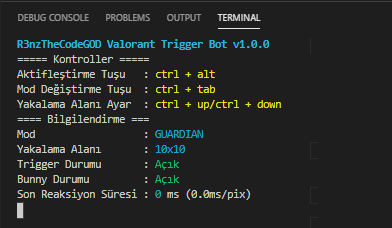
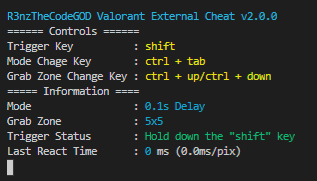
fix #3, Version v2.0.0

diff --git a/main.py b/main.py
@@ -1,123 +1,136 @@
-import keyboard
-import pyautogui
-import time
-import ctypes
-import PIL.ImageGrab
-import PIL.Image
-import winsound 
-import os
-import mss
+"""
+MIT License
+
+Copyright (c) 2020 Erdem Yılmaz
+
+Permission is hereby granted, free of charge, to any person obtaining a copy
+of this software and associated documentation files (the "Software"), to deal
+in the Software without restriction, including without limitation the rights
+to use, copy, modify, merge, publish, distribute, sublicense, and/or sell
+copies of the Software, and to permit persons to whom the Software is
+furnished to do so, subject to the following conditions:
+
+The above copyright notice and this permission notice shall be included in all
+copies or substantial portions of the Software.
+
+THE SOFTWARE IS PROVIDED "AS IS", WITHOUT WARRANTY OF ANY KIND, EXPRESS OR
+IMPLIED, INCLUDING BUT NOT LIMITED TO THE WARRANTIES OF MERCHANTABILITY,
+FITNESS FOR A PARTICULAR PURPOSE AND NONINFRINGEMENT. IN NO EVENT SHALL THE
+AUTHORS OR COPYRIGHT HOLDERS BE LIABLE FOR ANY CLAIM, DAMAGES OR OTHER
+LIABILITY, WHETHER IN AN ACTION OF CONTRACT, TORT OR OTHERWISE, ARISING FROM,
+OUT OF OR IN CONNECTION WITH THE SOFTWARE OR THE USE OR OTHER DEALINGS IN THE
+SOFTWARE.
+"""
+
+__author__: str = 'R3nzTheCodeGOD'
+__version__: str = 'v2.0.0'
+
+from keyboard import is_pressed
+from os import system
+from time import perf_counter, sleep
+from ctypes import windll
+from PIL import ImageGrab, Image
+from winsound import Beep 
+from mss import mss
 from colorama import Fore, Style, init
-S_HEIGHT, S_WIDTH = (PIL.ImageGrab.grab().size)
-PURPLE_R, PURPLE_G, PURPLE_B = (250, 100, 250)
-TOLERANCE = 31
-GRABZONE = 10
-TRIGGER_KEY = "ctrl + alt"
-SWITCH_KEY = "ctrl + tab"
-GRABZONE_KEY_UP = "ctrl + up"
-BUNNY_KEY = "ctrl + space"
-GRABZONE_KEY_DOWN = "ctrl + down"
-mods = ["OPERATOR/MARSHAL", "GUARDIAN", "VANDAL/PHANTOM/SHOTGUNS"]
-pyautogui.FAILSAFE = False
+
+S_HEIGHT, S_WIDTH = (ImageGrab.grab().size)
+GRABZONE: int = 5
+TRIGGER_KEY: str = 'shift'
+SWITCH_KEY: str = 'ctrl + tab'
+GRABZONE_KEY_UP: str = 'ctrl + up'
+GRABZONE_KEY_DOWN: str = 'ctrl + down'
+mods: tuple = ('0.3s Delay', '0.2s Delay', '0.1s Delay', 'No Delay Full-Auto')
  
 class FoundEnemy(Exception):
     pass
  
-class triggerBot():
+class TriggerBot:
     def __init__(self) -> None:
-        self.toggled = False
-        self._bunny = False
-        self.mode = 1
-        self.last_reac = 0
- 
-    def toggle(self) -> None: self.toggled = not self.toggled
-    def bunnyy(self) -> None: self._bunny = not self._bunny
- 
-    def switch(self):
-        if self.mode != 2: self.mode += 1
-        else: self.mode = 0
-        if self.mode == 0: winsound.Beep(200, 200)
-        if self.mode == 1: winsound.Beep(200, 200), winsound.Beep(200, 200)
-        if self.mode == 2: winsound.Beep(200, 200), winsound.Beep(200, 200), winsound.Beep(200, 200)
-
-    def click(self) -> None:
-        ctypes.windll.user32.mouse_event(2, 0, 0, 0,0) # sol bas
-        ctypes.windll.user32.mouse_event(4, 0, 0, 0,0) # sol bırak
+        self._mode: int = 2
+        self._last_reac: int = 0
         
-    def approx(self, r, g ,b) -> bool: return PURPLE_R - TOLERANCE < r < PURPLE_R + TOLERANCE and PURPLE_G - TOLERANCE < g < PURPLE_G + TOLERANCE and PURPLE_B - TOLERANCE < b < PURPLE_B + TOLERANCE
+    def switch(self):
+        if self._mode != 3: self._mode += 1
+        else: self._mode = 0
+
+        if self._mode == 0: Beep(200, 100)
+        elif self._mode == 1: Beep(200, 100), Beep(200, 100)
+        elif self._mode == 2: Beep(200, 100), Beep(200, 100), Beep(200, 100)
+        elif self._mode == 3: Beep(200, 100), Beep(200, 100), Beep(200, 100), Beep(200, 100)
  
-    def grab(self) -> None:
-        with mss.mss() as sct:
-            bbox=(int(S_HEIGHT/2-GRABZONE), int(S_WIDTH/2-GRABZONE), int(S_HEIGHT/2+GRABZONE), int(S_WIDTH/2+GRABZONE))
+    def color_check(self, red: int, green: int, blue: int) -> bool:
+        if green >= 190:
+            return False
+        
+        if green >= 140:
+            return abs(red - blue) <= 8 and red - green >= 50 and blue - green >= 50 and red >= 105 and blue >= 105
+
+        return abs(red - blue) <= 13 and red - green >= 60 and blue - green >= 60 and red >= 110 and blue >= 100
+
+    def grab(self) -> Image:
+        with mss() as sct:
+            bbox: tuple = (int(S_HEIGHT / 2 - GRABZONE), int(S_WIDTH / 2 - GRABZONE), int(S_HEIGHT / 2 + GRABZONE), int(S_WIDTH / 2 + GRABZONE))
             sct_img = sct.grab(bbox)
-            return PIL.Image.frombytes('RGB', sct_img.size, sct_img.bgra, 'raw', 'BGRX')
+            return Image.frombytes('RGB', sct_img.size, sct_img.bgra, 'raw', 'BGRX')
     
     def scan(self) -> None:
-        start_time = time.time()
-        pmap = self.grab()
+        start_time: float = perf_counter()
+        pmap: Image = self.grab()
         
         try:
             for x in range(0, GRABZONE*2):
                 for y in range(0, GRABZONE*2):
                     r, g, b = pmap.getpixel((x,y))
-                    if self.approx(r, g, b): raise FoundEnemy
-        except FoundEnemy:
-            self.last_reac = int((time.time() - start_time)*1000)
-            self.click()
-            if self.mode == 0: time.sleep(0.5)
-            if self.mode == 1: time.sleep(0.25)
-            if self.mode == 2: time.sleep(0.2)
-            print_banner(self)
+                    if self.color_check(r, g, b): raise FoundEnemy
 
-    def bunny(self) -> None:
-        while True:
-            if keyboard.is_pressed("space"): pyautogui.press("space")
-            else: break
-def print_banner(bot: triggerBot) -> None:
-    os.system("cls")
-    print(Style.BRIGHT + Fore.CYAN + "R3nzTheCodeGOD Valorant Trigger Bot v1.0.0" + Style.RESET_ALL)
-    print("===== Kontroller =====")
-    print("Aktifleştirme Tuşu   :", Fore.YELLOW + TRIGGER_KEY + Style.RESET_ALL)
-    print("Mod Değiştirme Tuşu  :", Fore.YELLOW + SWITCH_KEY + Style.RESET_ALL)
-    print("Yakalama Alanı Ayar  :", Fore.YELLOW + GRABZONE_KEY_UP + "/" + GRABZONE_KEY_DOWN + Style.RESET_ALL)
-    print("==== Bilgilendirme ===")
-    print("Mod                  :", Fore.CYAN + mods[bot.mode] + Style.RESET_ALL)
-    print("Yakalama Alanı       :", Fore.CYAN + str(GRABZONE) + "x" + str(GRABZONE) + Style.RESET_ALL)
-    print("Trigger Durumu       :", (Fore.GREEN if bot.toggled else Fore.RED) + ("Açık" if bot.toggled else "Kapalı") + Style.RESET_ALL)
-    print("Bunny Durumu         :", (Fore.GREEN if bot._bunny else Fore.RED) + ("Açık" if bot._bunny else "Kapalı") + Style.RESET_ALL)
-    print("Son Reaksiyon Süresi :", Fore.CYAN + str(bot.last_reac) + Style.RESET_ALL + " ms ("+str((bot.last_reac)/(GRABZONE*GRABZONE))+"ms/pix)")                                                                                                                                                                                                                                                                                                                                                                                                                                                                                                                                                                                                                                                                                                                                                                                                                                                                                                                                                                                                                                                                                                                                                                                                                                                                                                                                                                                                                                                                                                                                                                     
-                                                                                                                                                                                                                                                                                                                                                                                                                                                                                                                                                                                                                                                                                                                                                                                                                                                                                                                                                                                                                                                                                                                                                                                                                                                                                                                                                                                                                                                                                                                                                                                                                                                                                                                                                                                                                                                                                                                                                                                                                                                                                                                                                                                                                                                                                                                                                                                                                                                                                                                                                                                                                                                                                                                                                                                                                                                                                                                                                                                                                                                                                                                                                                                                                                                                                                                                                                                                                                                                                                                                                                                                                                                                                                                                                                                                                                                                                                                                                                                                                                                                                                                                                                                                                                                                                                                                                                                                                                                                                                                                                                                                                                                                                                                                                                                                                                                                                                                                                                                                          
+        except FoundEnemy:
+            self._last_reac = int((perf_counter() - start_time)*1000)
+
+            windll.user32.mouse_event(2, 0, 0, 0, 0)
+            windll.user32.mouse_event(4, 0, 0, 0, 0)
+
+            if self._mode == 0: sleep(0.3)
+            elif self._mode == 1: sleep(0.2)
+            elif self._mode == 2: sleep(0.1)
+            elif self._mode == 3: pass
+
+def print_banner(bot: TriggerBot) -> None:
+    system('cls')
+    print(Style.BRIGHT + Fore.CYAN + f'{__author__} Valorant External Cheat {__version__}' + Style.RESET_ALL)
+    print('====== Controls ======')
+    print('Trigger Key          :', Fore.YELLOW + TRIGGER_KEY + Style.RESET_ALL)
+    print('Mode Chage Key       :', Fore.YELLOW + SWITCH_KEY + Style.RESET_ALL)
+    print('Grab Zone Change Key :', Fore.YELLOW + GRABZONE_KEY_UP + '/' + GRABZONE_KEY_DOWN + Style.RESET_ALL)
+    print('===== Information ====')
+    print('Mode                 :', Fore.CYAN + mods[bot._mode] + Style.RESET_ALL)
+    print('Grab Zone            :', Fore.CYAN + str(GRABZONE) + 'x' + str(GRABZONE) + Style.RESET_ALL)
+    print('Trigger Status       :', Fore.GREEN + f'Hold down the "{TRIGGER_KEY}" key' + Style.RESET_ALL)
+    print('Last React Time      :', Fore.CYAN + str(bot._last_reac) + Style.RESET_ALL + ' ms (' + str((bot._last_reac)/(GRABZONE*GRABZONE)) + 'ms/pix)')
+
 if __name__ == "__main__":
-    bot = triggerBot()
[1 lines of base64/hex data omitted]
+    init()
+    system('@echo off')
+    system('cls')
+    bot = TriggerBot()
     print_banner(bot)
+
     while True:
-        if keyboard.is_pressed(SWITCH_KEY):
+        if is_pressed(SWITCH_KEY):
             bot.switch()
             print_banner(bot)
-            while keyboard.is_pressed(SWITCH_KEY): pass
-        if keyboard.is_pressed(GRABZONE_KEY_UP):
-            GRABZONE += 5
-            print_banner(bot)
-            winsound.Beep(400, 200)
-            while keyboard.is_pressed(GRABZONE_KEY_UP): pass
-        if keyboard.is_pressed(GRABZONE_KEY_DOWN):
-            GRABZONE -= 5
-            print_banner(bot)
-            winsound.Beep(300, 200)
-            while keyboard.is_pressed(GRABZONE_KEY_DOWN): pass
-        if keyboard.is_pressed(TRIGGER_KEY):
-            bot.toggle()
-            print_banner(bot)
-            if bot.toggled: winsound.Beep(440, 75), winsound.Beep(700, 100)
-            else: winsound.Beep(440, 75), winsound.Beep(200, 100)
-            while keyboard.is_pressed(TRIGGER_KEY): pass
-        if keyboard.is_pressed(BUNNY_KEY): 
-            bot.bunnyy()
-            print_banner(bot)
-            if bot._bunny: winsound.Beep(440, 75), winsound.Beep(700, 100)
-            else: winsound.Beep(440, 75), winsound.Beep(200, 100)
-            while keyboard.is_pressed(BUNNY_KEY): pass
 
-        if bot.toggled: bot.scan()
-        if bot._bunny:
-            if keyboard.is_pressed("space"): bot.bunny()
+        if is_pressed(GRABZONE_KEY_UP):
+            GRABZONE += 1
+            print_banner(bot)
+            Beep(400, 100)
+
+        if is_pressed(GRABZONE_KEY_DOWN):
+            if GRABZONE != 1: GRABZONE -= 1
+            print_banner(bot)
+            Beep(300, 100)
+
+        if is_pressed(TRIGGER_KEY):
+            bot.scan()
+            print_banner(bot)

diff --git a/README.md b/README.md
@@ -1,25 +1,39 @@
 # R3nzTheCodeGOD Valorant External Cheat
-**[UNDEDECTED]When you take your crosshair to the man, it shoots at the enemy in 6ms.**
+**[UNDEDECTED] When you take your crosshair to the man, it shoots at the enemy in 5ms.**
+
 ## Download and Using 
+
 ### I suggest
-- download code `git clone https://github.com/R3nzTheCodeGOD/Valorant-External-Cheat`
+- download code `git clone https://github.com/R3nzTheCodeGOD/Valorant-External-Cheat.git`
 - Install libraries with `pip install -U -r requirements.txt`
 - first open the console then run the code with `py main.py`
 - **NOTE:**  You need python 3 on your computer for this method
+
 ### second method / easy but I don't recommend
 - download the latest version [here](https://github.com/R3nzTheCodeGOD/Valorant-External-Cheat/releases)
 - run `r3nzthecodegod.exe`
 
-## Game Settings
+## Game Settings and Note
 - **You have to play the game in `purple colorblind mode`**
+- **The cheat works as long as you hold down the `Shift` key.**
 
 ## Ban Risk
-- I don't know but it's too low. I have been using it myself for 2 weeks, I have not been banned.
+- 6 months no one has been banned by this cheat
+
 ## Keybinds
 - trigger toggle `ctrl + alt`
 - bunnyhop toggle `ctrl + space`
 - `ctrl + tab` to switch mode
 - `ctrl + down` to decrease `ctrl + up` to increase the trigger area
+
+## Changelog
+### Version v2.0.0
+- Increased performance, faster reaction time.
+- Higher Security
+- Added Full-Auto Mode.
+- Holding down operating mode added continuous operation removed.
+- Bunny hop was removed because it negatively affected the performance. Will be added later
+- The program has been switched to the English language.
 
 ## Images from the program
 <img src=".assets/0.png">
